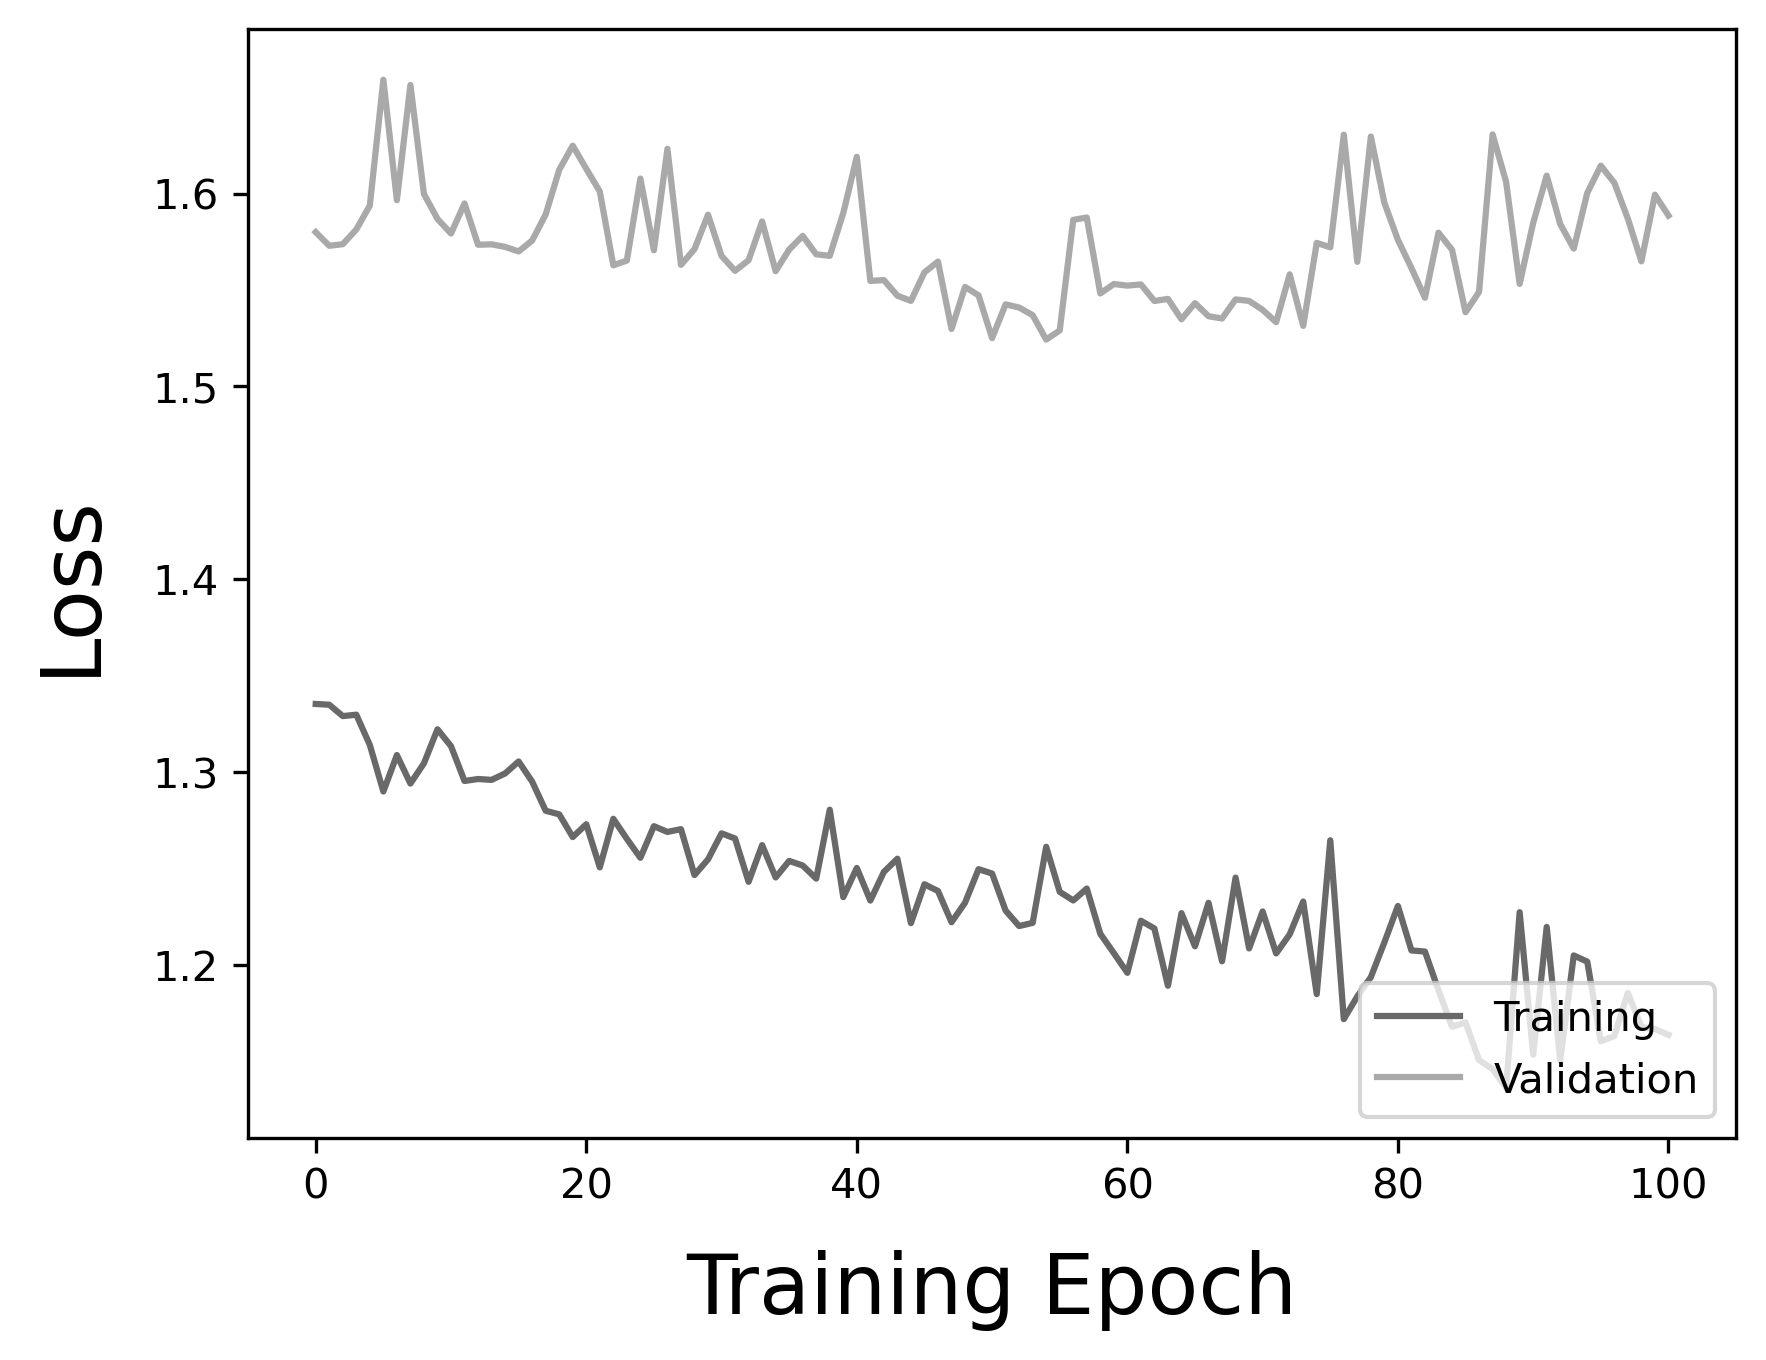
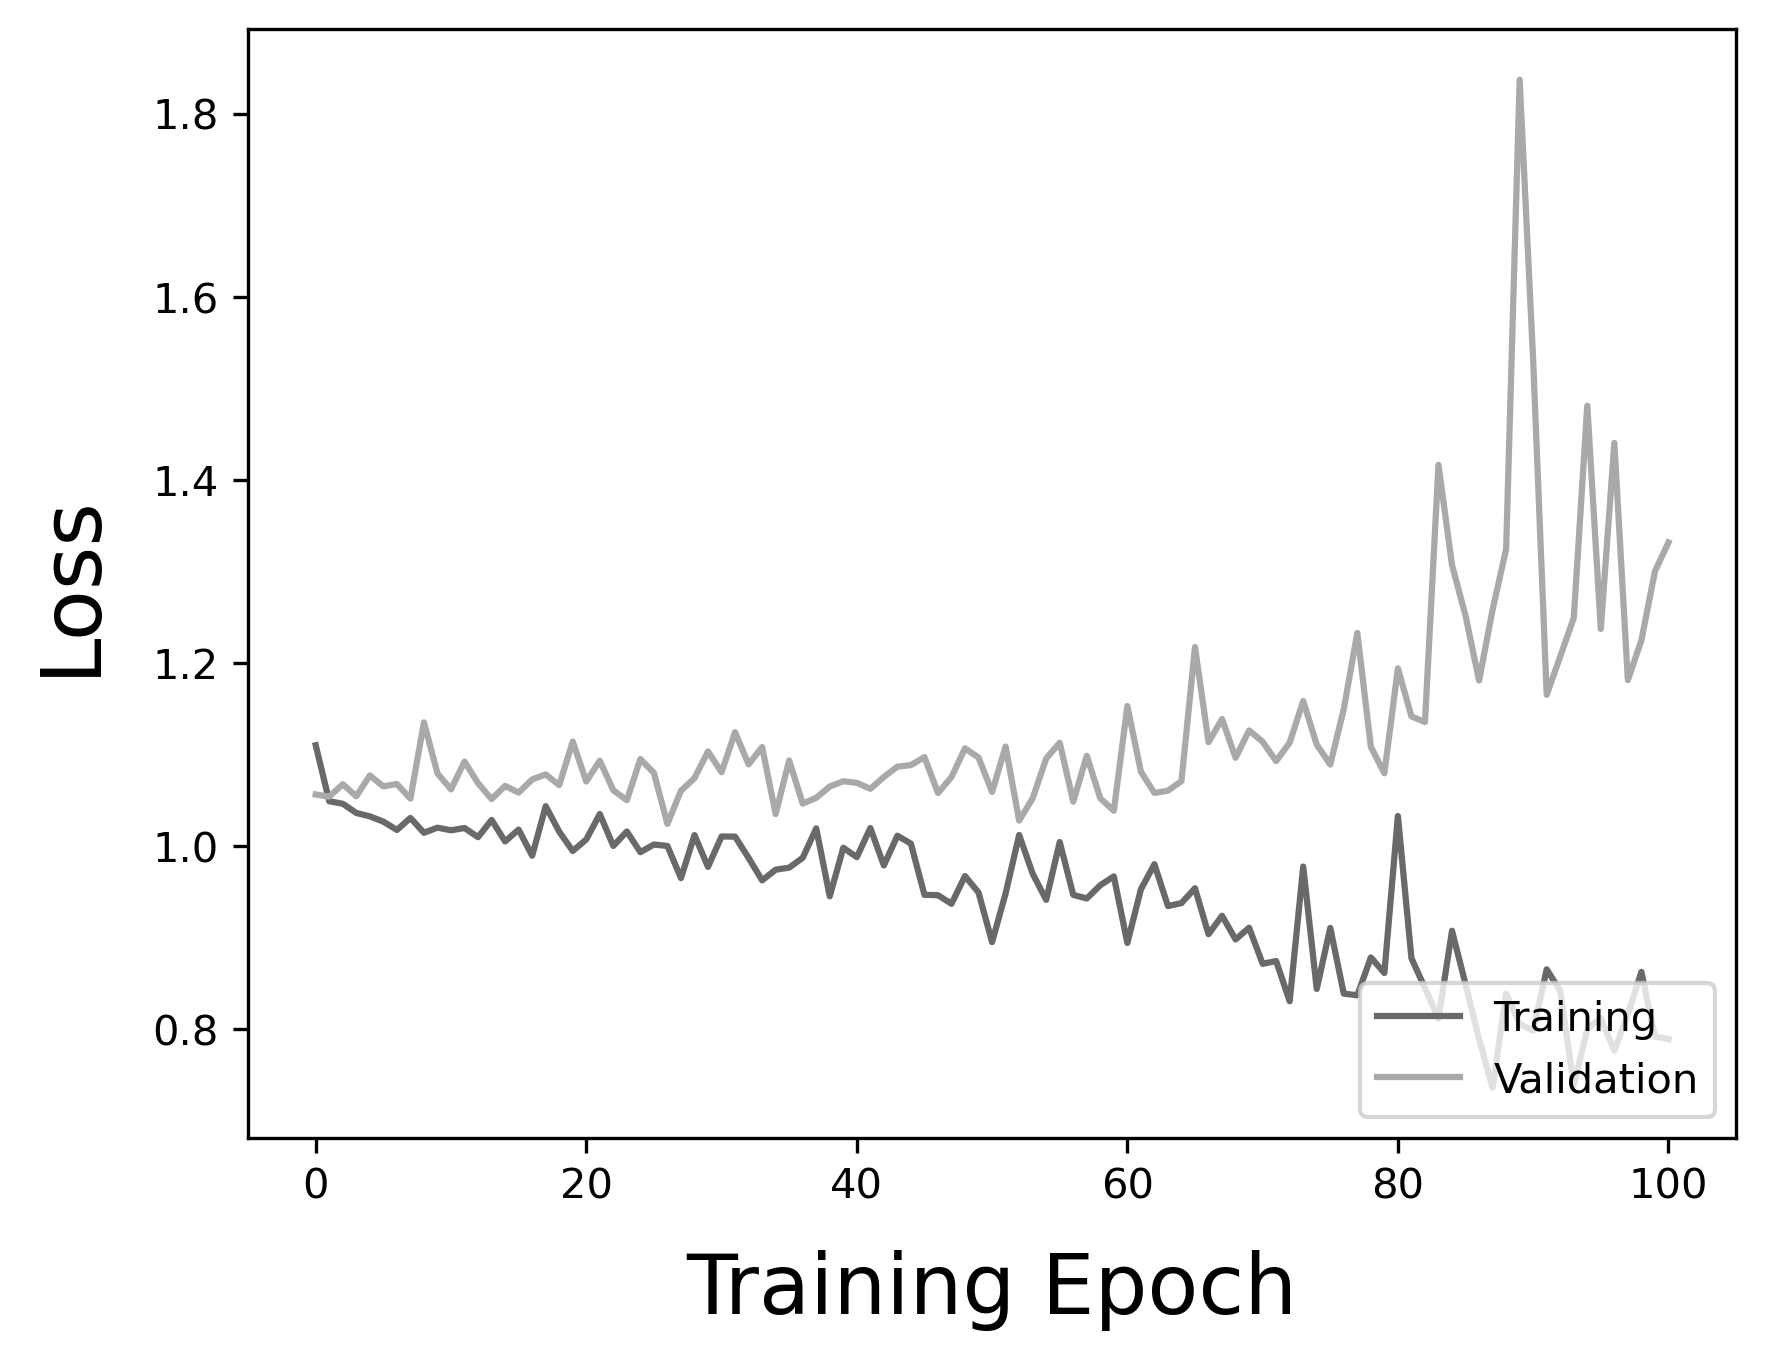
Update prototype learning algorithm

diff --git a/train.py b/train.py
@@ -99,13 +99,12 @@ class Trainer:
         self.backbone = backbone
         self.dataloaders = dataloaders
         self.output_dir = output_dir
-        self.loss_fn = loss_fn
 
         model_params = self.model.parameters()
         self.optimizer = optim.AdamW(model_params, lr=learning_rate, weight_decay=weight_decay)
 
-        self.bce_loss = nn.BCEWithLogitsLoss(pos_weight=torch.Tensor([pos_weight])).to(self.gpu_id)
-        self.kl_loss = nn.KLDivLoss(reduction='batchmean', log_target=True).to(self.gpu_id)
+        self.bag_loss = nn.BCEWithLogitsLoss(pos_weight=torch.Tensor([pos_weight])).to(self.gpu_id)
+        self.inst_loss = nn.BCEWithLogitsLoss().to(self.gpu_id)
 
     def save_output(
             self, 
@@ -148,6 +147,7 @@ class Trainer:
     def train(
             self, 
             metric: torchmetrics, 
+            soft_labels: dict,
             epoch: int, 
             batch_size: int,
             accum_steps: int
@@ -167,7 +167,6 @@ class Trainer:
         running_loss = 0.0
         self.model.train()
         self.optimizer.zero_grad(set_to_none=True)
-        self.loss_optimizer.zero_grad(set_to_none=True)
 
         if self.gpu_id == 0:
             print('-' * 10)
@@ -176,7 +175,18 @@ class Trainer:
 
         for step, batch_data in enumerate(self.dataloaders['train']):
             # inputs, labels, encodings = batch_data['image'].to(self.gpu_id), batch_data['label'].to(self.gpu_id), batch_data['age'].type(torch.float32).to(self.gpu_id)
-            inputs, labels = batch_data['image'].to(self.gpu_id), batch_data['label'].to(self.gpu_id)
+            inputs, labels, uid = batch_data['image'].to(self.gpu_id), batch_data['label'].to(self.gpu_id), batch_data['uid']
+            sh = inputs.shape
+            alpha = 0.8 if (0.95 - epoch * 0.01) < 0.8 else 0.95 - epoch * 0.01
+            labels = labels.unsqueeze(1).float()
+
+            if epoch == 0:
+                expanded_labels = labels.repeat(1, sh[1])
+                soft_labels['id'].append(uid)
+                soft_labels['soft_label'].append(expanded_labels)
+            else:
+                indices = [soft_labels['id'].index(element) for element in uid]
+                soft_labels = soft_labels['soft_label'][indices]
 
             # input_mask = (labels == 99).bool()
             # encodings = (encodings - 64.214) / 11.826
@@ -187,9 +197,17 @@ class Trainer:
                 #     x_mask=input_mask,
                 #     encodings=encodings,
                 #     batch_size=batch_size)
-                logits, euc_log, att_log = self.model(inputs)
-                loss = self.bce_loss(logits.squeeze(1), labels.float()) + self.kl_loss(euc_log, att_log)
+                bag_logits, inst_logits, pseudo_labels = self.model(inputs, alpha.to(inputs.device))
+                if epoch == 0:
+                    soft_labels = 0.99 * expanded_labels + (1 - 0.99) * pseudo_labels
+                else:
+                    soft_labels = 0.99 * soft_labels.to(pseudo_labels.device) + (1 - 0.99) * pseudo_labels
+
+                loss = self.bag_loss(bag_logits, labels) + self.inst_loss(inst_logits, soft_labels)
                 loss = loss / accum_steps
+
+            if epoch >= 10:
+                soft_labels['soft_label'][indices] = soft_labels
             
             self.scaler.scale(loss).backward()
             running_loss += loss.item()
@@ -204,15 +222,20 @@ class Trainer:
                 if self.gpu_id == 0:
                     print(f"{step + 1}/{len(self.dataloaders['train'])}, Batch Loss: {loss.item() * accum_steps:.4f}")
 
+        if epoch == 0:
+            soft_labels['id'] = [element for id_list in soft_labels['id'] for element in id_list]
+            soft_labels['soft_label'] = torch.cat(soft_labels['soft_label'], dim=0)
+
         epoch_loss = running_loss / (len(self.dataloaders['train']) // accum_steps)
         epoch_f1score = metric.compute()
         metric.reset()
         print(f"[GPU {self.gpu_id}] Epoch {epoch}, Training Loss: {epoch_loss:.4f}, and F1-Score: {epoch_f1score:.4f}")
-        return epoch_loss, epoch_f1score
+        return epoch_loss, epoch_f1score, soft_labels
 
     def evaluate(
             self, 
             metric: torchmetrics, 
+            soft_labels: dict,
             epoch: int,
             ) -> tuple:
 
@@ -235,26 +258,51 @@ class Trainer:
         with torch.no_grad():
             for step, batch_data in enumerate(self.dataloaders['val']):
                 # inputs, labels, encodings = batch_data['image'].to(self.gpu_id), batch_data['label'].to(self.gpu_id), batch_data['age'].type(torch.float32)
-                inputs, labels = batch_data['image'].to(self.gpu_id), batch_data['label'].to(self.gpu_id)
+                inputs, labels, uid = batch_data['image'].to(self.gpu_id), batch_data['label'].to(self.gpu_id), batch_data['uid']
                 # encodings = (encodings - 64.214) / 11.826
+
+                sh = inputs.shape
+                alpha = 0.8 if (0.95 - epoch * 0.01) < 0.8 else 0.95 - epoch * 0.01
+                labels = labels.unsqueeze(1).float()
+
+                if epoch == 0:
+                    expanded_labels = labels.repeat(1, sh[1])
+                    soft_labels['id'].append(uid)
+                    soft_labels['soft_label'].append(expanded_labels)
+                else:
+                    indices = [soft_labels['id'].index(element) for element in uid]
+                    soft_labels = soft_labels['soft_label'][indices]
 
                 with autocast(enabled=self.amp):
                     # logits = self.model(
                     #     x=inputs,
                     #     encodings=encodings,
                     #     batch_size=1)
-                    logits, euc_log, att_log = self.model(inputs)
-                    loss = self.bce_loss(logits.squeeze(1), labels.float()) + self.kl_loss(euc_log, att_log)
+                    bag_logits, inst_logits, pseudo_labels = self.model(inputs, alpha.to(inputs.device))
+                    if epoch == 0:
+                        soft_labels = 0.99 * expanded_labels + (1 - 0.99) * pseudo_labels
+                    else:
+                        soft_labels = 0.99 * soft_labels.to(pseudo_labels.device) + (1 - 0.99) * pseudo_labels
+
+                    loss = self.bag_loss(bag_logits, labels) + self.inst_loss(inst_logits, soft_labels)
+                    loss = loss / accum_steps
+
+                if epoch >= 10:
+                    soft_labels['soft_label'][indices] = soft_labels
 
                 running_loss += loss.item()
                 metric.update(logits.squeeze(1), labels)
+
+        if epoch == 0:
+            soft_labels['id'] = [element for id_list in soft_labels['id'] for element in id_list]
+            soft_labels['soft_label'] = torch.cat(soft_labels['soft_label'], dim=0)
 
         epoch_loss = running_loss / len(self.dataloaders['val'])
         epoch_f1score = metric.compute()
         metric.reset()
         print(f"[GPU {self.gpu_id}] Epoch {epoch}, Validation Loss: {epoch_loss:.4f}, and F1-Score: {epoch_f1score:.4f}")
 
-        return epoch_loss, epoch_f1score
+        return epoch_loss, epoch_f1score, soft_labels
     
     def training_loop(
             self, 
@@ -286,19 +334,20 @@ class Trainer:
         counter = 0
         stop_criterion = torch.zeros(1).to(self.gpu_id)
         history = {'train_loss': [], 'train_f1score': [], 'val_loss': [], 'val_f1score': []}
+        soft_labels = {x: {'id': [], 'soft_label': []} for x in ['train','val']}
 
         for epoch in range(max_epochs):
             start_time = time.time()
-            train_loss, train_f1score = self.train(metric, epoch, batch_size, accum_steps)
+            train_loss, train_f1score, soft_labels['train'] = self.train(metric, soft_labels['train'], epoch, batch_size, accum_steps)
             history['train_f1score'].append(train_f1score.cpu().item())
             history['train_loss'].append(train_loss)
 
             if (epoch + 1) % val_every == 0:
-                val_loss, val_f1score = self.evaluate(metric, epoch)
+                val_loss, val_f1score, soft_labels['val'] = self.evaluate(metric, soft_labels['val'], epoch)
                 history['val_loss'].append(val_loss)
                 history['val_f1score'].append(val_f1score.cpu().item())
 
-                if self.gpu_id == 0:
+                if self.gpu_id == 1:
                     if val_loss < best_loss:
                         best_loss = val_loss
                         f1score = val_f1score
@@ -545,26 +594,22 @@ def data_transforms(
         EnsureChannelFirstd(keys=modalities),
         Orientationd(keys=modalities, axcodes='PLI'),
         Spacingd(keys=modalities, pixdim=(1.5, 1.5, 1.75), mode='bilinear'),
-        ResampleToMatchd(keys=modalities, key_dst='DWI_b0', mode='bilinear'),
+        ResampleToMatchd(keys=modalities, key_dst='T1W_OOP', mode='bilinear'),
         ConcatItemsd(keys='DWI_b0', name='image'),
+        NormalizeIntensityd(keys='image', channel_wise=True),
         ScaleIntensityRangePercentilesd(keys='T1W_OOP', lower=33.0, upper=99.0, b_min=0.0, b_max=1.0, clip=True),
         ForegroundMaskd(keys='T1W_OOP', invert=True, new_key_prefix='MASK_', threshold=0.95),
         Lambdad(keys='MASK_T1W_OOP', func=lambda x: x[:, :, :, -(x.shape[3] // 10):]),
         KeepLargestConnectedComponentd(keys='MASK_T1W_OOP', connectivity=1),
-        # Lambdad(keys='MASK_T1W_OOP', func=lambda x: binary_closing(x, structure=np.ones((1, 16, 16, 1)))),
         ResizeToMatchd(keys='MASK_T1W_OOP', dst_key='image', mode='nearest'),
-        # MaskIntensityd(keys='image', mask_key='MASK_T1W_OOP', select_fn=lambda x: x > 0),
         CropForegroundd(
             keys='image', 
             source_key='MASK_T1W_OOP', 
             select_fn=lambda x: x > 0,
-            k_divisible=(1, 1, 1),
-            mode='reflect',
             allow_smaller=True),
         DeleteItemsd(keys=modalities + ['MASK_T1W_OOP']),
-        NormalizeIntensityd(keys='image', channel_wise=True),
-        DivisiblePercentileCropd(keys='image', roi_center=(0.5, 0.35, 0.5), k_divisible=16),
-        CenterSpatialCropd(keys='image', roi_size=(176, 160, -1))
+        DivisiblePercentileCropd(keys='image', roi_center=(0.5, 0.35, 0.5), k_divisible=(48, 48, 48)),
+        CenterSpatialCropd(keys='image', roi_size=(144, 144, 96))
     ]
 
     train = [
@@ -574,24 +619,20 @@ def data_transforms(
         RandFlipd(keys='image', prob=0.1, spatial_axis=2),
         RandStdShiftIntensityd(keys='image', prob=0.5, factors=0.1),
         RandScaleIntensityd(keys='image', prob=0.5, factors=0.1),
+        ScaleIntensityd(keys='image', minv=0.0, maxv=1.0, channel_wise=True),
         RandGridPatchd(
             keys='image',
-            patch_size=(32, 32, 32),
-            min_offset=(2, 2, 2),
-            max_offset=(6, 6, 6),
-            num_patches=32,
-            sort_fn='random',
-            overlap=0.25),
-        ScaleIntensityd(keys='image', minv=0.0, maxv=1.0, channel_wise=False)
+            patch_size=(48, 48, 48),
+            num_patches=18),
+        RandSpatialCropd(keys='image', roi_size=(18, 32, 32, 32), random_size=False)
     ]
 
     val = [
+        ScaleIntensityd(keys='image', minv=0.0, maxv=1.0, channel_wise=True),
         GridPatchd(
             keys='image', 
             patch_size=(32, 32, 32),
-            offset=(4, 4, 4),
-            overlap=0.25),
-        ScaleIntensityd(keys='image', minv=0.0, maxv=1.0, channel_wise=False),
+            offset=(8, 8, 0)),
         EnsureTyped(keys='image', track_meta=False, device=device)
     ]
 

diff --git a/models/milnet.py b/models/milnet.py
@@ -131,7 +131,8 @@ class MILNet(nn.Module):
 
         fc_classes = num_classes if num_classes > 2 else 1
         self.myfc = nn.Linear(nfc, fc_classes)
-        self.prototype = nn.Parameter(torch.randn(num_classes, nfc))
+        self.inst_fc = nn.Linear(nfc, fc_classes)
+        self.prototype = nn.Parameter(torch.zeros(fc_classes, nfc))
         self.net = net
         self.nfc = nfc
             
@@ -147,19 +148,16 @@ class MILNet(nn.Module):
         if self.mil_mode == "mean":
             x = self.myfc(x)
             x = torch.mean(x, dim=1)
-            return x
 
         elif self.mil_mode == "max":
             x = self.myfc(x)
             x, _ = torch.max(x, dim=1)
-            return x
 
         elif self.mil_mode == "att":
             a = self.attention(x)
             a = torch.softmax(a, dim=1)
             x = torch.sum(x * a, dim=1)
             x = self.myfc(x)
-            return x, a
 
         elif self.mil_mode == "att_trans" and self.transformer is not None:
             x = x.permute(1, 0, 2)
@@ -170,7 +168,6 @@ class MILNet(nn.Module):
             a = torch.softmax(a, dim=1)
             x = torch.sum(x * a, dim=1)
             x = self.myfc(x)
-            return x, a 
 
         elif self.mil_mode == "att_trans_pyramid" and self.transformer is not None:
             l1 = torch.mean(self.extra_outputs["layer1"], dim=(2, 3)).reshape(sh[0], sh[1], -1).permute(1, 0, 2)
@@ -191,26 +188,24 @@ class MILNet(nn.Module):
             a = torch.softmax(a, dim=1)
             x = torch.sum(x * a, dim=1)
             x = self.myfc(x)
-            return x, a
 
         else:
             raise ValueError("Wrong model mode" + str(self.mil_mode))
 
-    def calc_euclidean(self, feats: torch.Tensor, att: torch.Tensor) -> torch.Tensor:
+        return x
+
+    def calc_prototype(self, feats: torch.Tensor, topk: int, alpha: float) -> torch.Tensor:
         
         sh = feats.shape
-        prototype = self.prototype.expand(sh[0] * sh[1], -1, -1).to(feats.device)
         feats = feats.reshape(sh[0] * sh[1], -1)
-        att = att.reshape(sh[0] * sh[1], -1)
+        logits = self.inst_fc(feats)
+        sig = F.sigmoid(logits)
+        top10 = torch.topk(sig.flatten(), topk).indices
+        prototype = alpha * self.prototype + (1 - alpha) * feats[top10]
+        pseudo_labels = torch.argmax(torch.mm(prototype, feats.transpose(1, 0)), dim=0)
+        return logits.squeeze(1), pseudo_labels
 
-        euc = torch.cdist(feats, prototype, p=2)
-        euc_log = F.log_softmax(euc[[0]].squeeze(0), dim=1)
-
-        att = torch.cat((1 - att, att), dim=1)
-        att_log = F.log_softmax(att, dim=1)
-        return euc_log, att_log
-
-    def forward(self, x: torch.Tensor, no_head: bool = False, no_euclidean: bool = False) -> torch.Tensor:
+    def forward(self, x: torch.Tensor, alpha: float = 0.95, no_head: bool = False) -> torch.Tensor:
         sh = x.shape
         if len(sh) == 5:
             x = x.reshape(sh[0] * sh[1], sh[2], sh[3], sh[4])
@@ -221,9 +216,7 @@ class MILNet(nn.Module):
         feats = feats.reshape(sh[0], sh[1], -1)
 
         if not no_head:
-            out, att = self.calc_head(feats)
+            bag_logits = self.calc_head(feats)
+        inst_logits, pseudo_labels = self.calc_prototype(feats, topk=10, alpha=alpha)
 
-        if not no_euclidean:
-            euc_log, att_log = self.calc_euclidean(feats, att)
-
-        return out, euc_log, att_log
+        return bag_logits, inst_logits.reshape(sh[0], sh[1]), pseudo_labels.reshape(sh[0], sh[1])

diff --git a/data/transforms.py b/data/transforms.py
@@ -38,7 +38,7 @@ class DivisiblePercentileCropd(Transform):
             self,
             keys: str | list,
             roi_center: Sequence[float],
-            k_divisible: int = 1,
+            k_divisible: Sequence[int],
         ) -> None:
 
         self.keys = [keys] if isinstance(keys, str) else keys
@@ -52,10 +52,10 @@ class DivisiblePercentileCropd(Transform):
             for channel in image[key]:
                 shape = channel.shape
                 roi_center = [int(self.roi_center[i] * shape[i]) for i in range(len(shape))]
-                roi_size = [round(roi_center[i] / self.k_divisible * 2) / 2 for i in range(len(shape))]
-                roi_size = [roi_size[i] - 0.5 if roi_center[i] / roi_size[i] < self.k_divisible else roi_size[i] for i in range(len(shape))]
-                roi_start = [int(roi_center[i] - roi_size[i] * self.k_divisible) for i in range(len(shape))]
-                roi_end = [int(roi_center[i] + roi_size[i] * self.k_divisible) for i in range(len(shape))]
+                roi_size = [round(roi_center[i] / self.k_divisible[i] * 2) / 2 for i in range(len(shape))]
+                roi_size = [roi_size[i] - 0.5 if roi_center[i] / roi_size[i] < self.k_divisible[i] else roi_size[i] for i in range(len(shape))]
+                roi_start = [int(roi_center[i] - roi_size[i] * self.k_divisible[i]) for i in range(len(shape))]
+                roi_end = [int(roi_center[i] + roi_size[i] * self.k_divisible[i]) for i in range(len(shape))]
                 cropped_image.append(channel[roi_start[0]:roi_end[0], roi_start[1]:roi_end[1], roi_start[2]:roi_end[2]])
             image[key] = torch.stack(cropped_image)
         return image
